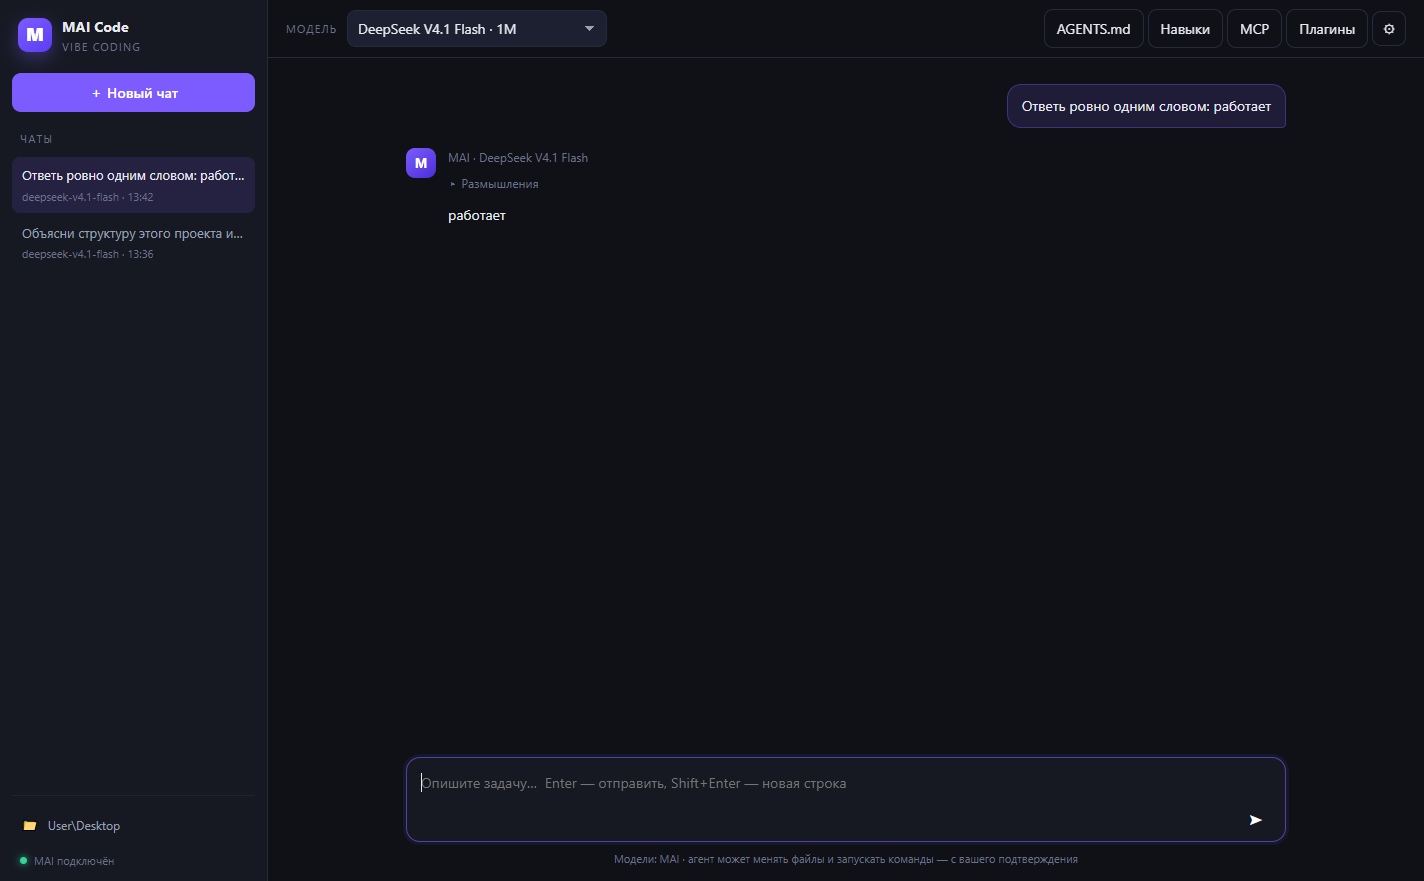
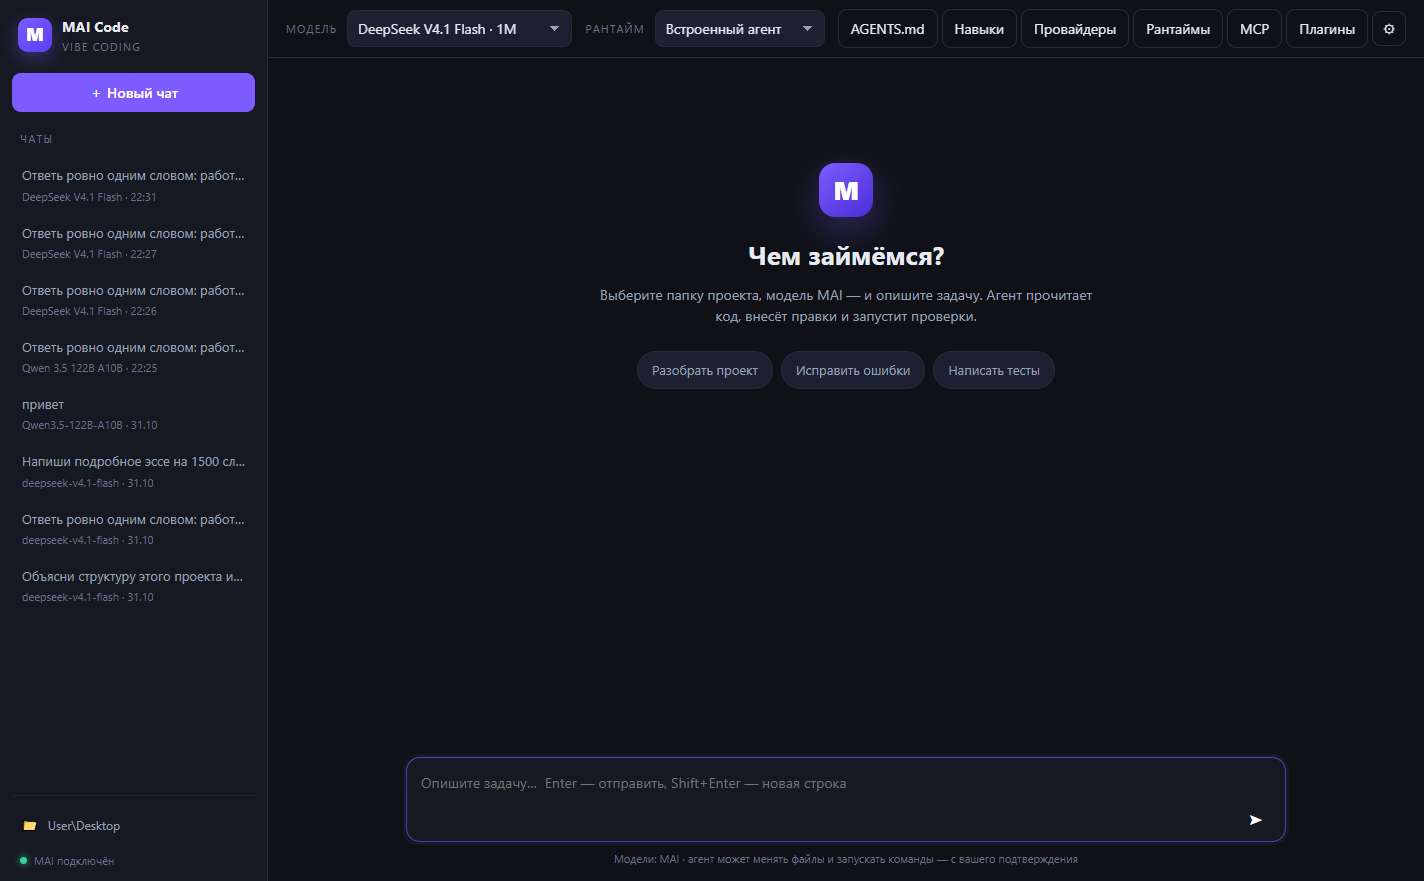
Refresh screenshots and tighten topbar layout

diff --git a/renderer/styles.css b/renderer/styles.css
@@ -120,13 +120,12 @@ button { cursor: pointer; }
   backdrop-filter: blur(8px);
 }
 .model-wrap { display: flex; align-items: center; gap: 10px; min-width: 0; }
-.top-left { display: flex; align-items: center; gap: 14px; min-width: 0; }
-.runtime-select { min-width: 190px; }
+.top-left { display: flex; align-items: center; gap: 14px; min-width: 0; flex: 0 1 auto; }
 .avatar.mono { font-family: var(--mono); font-size: 14px; }
 .model-label { font-size: 11px; text-transform: uppercase; letter-spacing: 1px; color: var(--text-faint); }
 .model-select {
   background: var(--bg-elev-2); border: 1px solid var(--border); border-radius: 9px;
-  padding: 7px 30px 7px 10px; min-width: 260px; max-width: 420px;
+  padding: 7px 30px 7px 10px; min-width: 220px; max-width: 320px;
   appearance: none;
   background-image: linear-gradient(45deg, transparent 50%, var(--text-dim) 50%), linear-gradient(135deg, var(--text-dim) 50%, transparent 50%);
   background-position: calc(100% - 16px) 15px, calc(100% - 11px) 15px;
@@ -134,7 +133,8 @@ button { cursor: pointer; }
   background-repeat: no-repeat;
 }
 .model-select:focus { outline: none; border-color: var(--accent); }
-.top-actions { display: flex; align-items: center; gap: 4px; }
+.runtime-select { min-width: 170px; max-width: 200px; }
+.top-actions { display: flex; align-items: center; gap: 4px; flex: 0 0 auto; }
 
 /* ---------- messages ---------- */
 

diff --git a/README.md b/README.md
@@ -103,6 +103,8 @@ AGENTROUTER_API_KEY=sk-...
 
 ## Провайдеры
 
+![Панель «Провайдеры»](docs/providers.png)
+
 Кнопка «Провайдеры» в верхней панели. Каждый провайдер — это `Base URL` + `API-ключ` +
 необязательный статический список моделей. Модели в дропдауне показываются группами:
 
